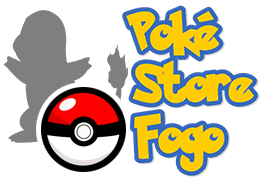
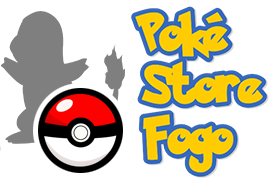
Ajustes do Mobile

Changed region(s): [[0.0, 0.0275, 1.0, 0.989]]

diff --git a/src/components/Header/style.ts b/src/components/Header/style.ts
@@ -19,13 +19,13 @@ const HeaderContainer = styled.header`
     margin-right: 20px;
     position: relative;
 
-    width: 133px;
+    width: 139px;
     height: 93px;
 
     img {
       width: 100%;
       height: 100%;
-      object-fit: cover;
+      object-fit: contain;
     }
 
     &:after {
@@ -48,8 +48,8 @@ const HeaderContainer = styled.header`
     display: flex;
     color: white;
     position: relative;
-    height: 51px;
-    width: 49px;
+    height: 56px;
+    width: 55px;
     min-width: 49px;
     margin-left: 20px;
 
@@ -115,7 +115,7 @@ export const CartContainer = styled.button`
       position: absolute;
       width: 30px;
       height: 40px;
-      object-fit: cover;
+      object-fit: contain;
     }
 
     > img:nth-child(1) {

diff --git a/src/components/PokeCard/styles.ts b/src/components/PokeCard/styles.ts
@@ -39,7 +39,7 @@ const CardContainer = styled.div`
     img {
       width: 100%;
       height: 100%;
-      object-fit: cover;
+      object-fit: contain;
       background-color: #ffd9d9;
       border-radius: 12px;
     }
@@ -65,6 +65,9 @@ const CardContainer = styled.div`
     border-top-color: transparent;
   }
 
+  .name-container {
+    text-align: center;
+  }
   .name-container,
   .price-container {
     margin-bottom: 7px;

diff --git a/src/pages/PageFogo/styles.ts b/src/pages/PageFogo/styles.ts
@@ -477,9 +477,10 @@ export const ModalContainer = styled.div`
     z-index: 1;
     bottom: -1px;
     left: -1px;
-    width: 150px;
-    height: 193px;
-    object-fit: cover;
+    width: 200px;
+    height: 200px;
+    object-fit: contain;
+    object-position: left bottom;
 
     @media (max-width: 767px) {
       display: none;

diff --git a/src/components/CartItem/styles.ts b/src/components/CartItem/styles.ts
@@ -25,7 +25,7 @@ const CartItemContainer = styled.div`
     img {
       width: 70px;
       height: 70px;
-      object-fit: cover;
+      object-fit: contain;
       background-color: #ffe3e3;
       border-radius: 12px;
     }
